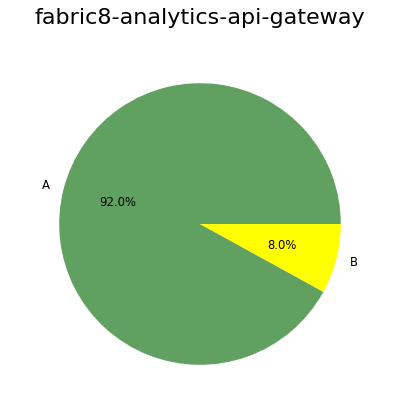
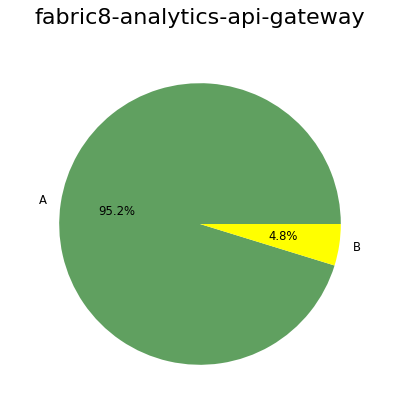
Dashboard 2018-05-17

diff --git a/dashboard/fabric8-analytics-api-gateway.cc.A.html b/dashboard/fabric8-analytics-api-gateway.cc.A.html
@@ -1,35 +1,31 @@
 <pre>tests/test_api_v1.py
-    <span style="color:#00AA00">M </span>20:4 TestServicesEndpoints.test_gremlin - <span style="color:#00AA00">A (3)</span>
-    <span style="color:#00AA00">M </span>26:4 TestServicesEndpoints.test_data_importer - <span style="color:#00AA00">A (3)</span>
-    <span style="color:#00AA00">M </span>32:4 TestServicesEndpoints.test_jobs - <span style="color:#00AA00">A (3)</span>
-    <span style="color:#00AAAA">C </span>7:0 TestServicesEndpoints - <span style="color:#00AA00">A (2)</span>
-    <span style="color:#00AA00">M </span>14:4 TestServicesEndpoints.test_root_endpoint - <span style="color:#00AA00">A (2)</span>
-    <span style="color:#00AA00">M </span>10:4 TestServicesEndpoints.setUp - <span style="color:#00AA00">A (1)</span>
+    <span style="color:#00AA00">M </span>26:4 TestServicesEndpoints.test_unknown_service - <span style="color:#00AA00">A (3)</span>
+    <span style="color:#00AAAA">C </span>8:0 TestServicesEndpoints - <span style="color:#00AA00">A (2)</span>
+    <span style="color:#00AA00">M </span>15:4 TestServicesEndpoints.test_root_endpoint - <span style="color:#00AA00">A (2)</span>
+    <span style="color:#00AA00">M </span>21:4 TestServicesEndpoints.test_gremlin - <span style="color:#00AA00">A (2)</span>
+    <span style="color:#00AA00">M </span>11:4 TestServicesEndpoints.setUp - <span style="color:#00AA00">A (1)</span>
 tests/test_defaults.py
-    <span style="color:#AA00AA">F </span>7:0 test_dummy - <span style="color:#00AA00">A (1)</span>
+    <span style="color:#AA00AA">F </span>4:0 test_dummy - <span style="color:#00AA00">A (1)</span>
 gateway/auth.py
-    <span style="color:#AA00AA">F </span>44:0 decode_token - <span style="color:#00AA00">B (7)</span>
-    <span style="color:#AA00AA">F </span>17:0 fetch_public_key - <span style="color:#00AA00">A (4)</span>
-    <span style="color:#AA00AA">F </span>118:0 user_whitelisted - <span style="color:#00AA00">A (2)</span>
-    <span style="color:#AA00AA">F </span>73:0 login_required - <span style="color:#00AA00">A (1)</span>
-    <span style="color:#00AAAA">C </span>126:0 F8aUser - <span style="color:#00AA00">A (1)</span>
-    <span style="color:#00AA00">M </span>129:4 F8aUser.__init__ - <span style="color:#00AA00">A (1)</span>
+    <span style="color:#AA00AA">F </span>42:0 decode_token - <span style="color:#00AA00">B (7)</span>
+    <span style="color:#AA00AA">F </span>15:0 fetch_public_key - <span style="color:#00AA00">A (4)</span>
+    <span style="color:#AA00AA">F </span>121:0 get_whitelist - <span style="color:#00AA00">A (3)</span>
+    <span style="color:#AA00AA">F </span>72:0 login_required - <span style="color:#00AA00">A (1)</span>
+    <span style="color:#AA00AA">F </span>116:0 user_whitelisted - <span style="color:#00AA00">A (1)</span>
+    <span style="color:#00AAAA">C </span>132:0 F8aUser - <span style="color:#00AA00">A (1)</span>
+    <span style="color:#00AA00">M </span>135:4 F8aUser.__init__ - <span style="color:#00AA00">A (1)</span>
 gateway/api_v1.py
-    <span style="color:#AA00AA">F </span>43:0 api_gateway - <span style="color:#00AA00">B (7)</span>
-    <span style="color:#AA00AA">F </span>24:0 logout - <span style="color:#00AA00">A (2)</span>
-    <span style="color:#AA00AA">F </span>33:0 index - <span style="color:#00AA00">A (1)</span>
-    <span style="color:#AA00AA">F </span>89:0 readiness - <span style="color:#00AA00">A (1)</span>
-    <span style="color:#AA00AA">F </span>96:0 liveness - <span style="color:#00AA00">A (1)</span>
-    <span style="color:#AA00AA">F </span>103:0 api_404_handler - <span style="color:#00AA00">A (1)</span>
+    <span style="color:#AA00AA">F </span>44:0 api_gateway - <span style="color:#00AA00">A (5)</span>
+    <span style="color:#AA00AA">F </span>15:0 configure_logging - <span style="color:#00AA00">A (2)</span>
+    <span style="color:#AA00AA">F </span>34:0 index - <span style="color:#00AA00">A (1)</span>
+    <span style="color:#AA00AA">F </span>78:0 api_404_handler - <span style="color:#00AA00">A (1)</span>
+    <span style="color:#AA00AA">F </span>84:0 error_handler - <span style="color:#00AA00">A (1)</span>
 gateway/errors.py
     <span style="color:#00AAAA">C </span>4:0 HTTPError - <span style="color:#00AA00">A (1)</span>
-    <span style="color:#00AA00">M </span>16:4 HTTPError.__init__ - <span style="color:#00AA00">A (1)</span>
+    <span style="color:#00AA00">M </span>11:4 HTTPError.__init__ - <span style="color:#00AA00">A (1)</span>
 gateway/defaults.py
-    <span style="color:#00AAAA">C </span>16:0 JSONEncoderWithExtraTypes - <span style="color:#00AA00">A (4)</span>
-    <span style="color:#00AA00">M </span>25:4 JSONEncoderWithExtraTypes.default - <span style="color:#00AA00">A (4)</span>
-    <span style="color:#AA00AA">F </span>9:0 json_serial - <span style="color:#00AA00">A (2)</span>
-    <span style="color:#00AAAA">C </span>38:0 F8AConfiguration - <span style="color:#00AA00">A (1)</span>
+    <span style="color:#00AAAA">C </span>5:0 F8AConfiguration - <span style="color:#00AA00">A (1)</span>
 
-25 blocks (classes, functions, methods) analyzed.
-Average complexity: <span style="color:#00AA00">A (2.28)</span>
+21 blocks (classes, functions, methods) analyzed.
+Average complexity: <span style="color:#00AA00">A (2.0)</span>
 </pre>

diff --git a/dashboard/dashboard.html b/dashboard/dashboard.html
@@ -49,7 +49,7 @@
                                     <a href='https://ci.centos.org/job/devtools-test-end-to-end-prod-fabric8-analytics'>link</a>
                                 </td>
                             <td style="width:3ex">
-                                <a href='https://ci.centos.org/job/devtools-test-end-to-end-prod-fabric8-analytics'>99/100</a>
+                                <a href='https://ci.centos.org/job/devtools-test-end-to-end-prod-fabric8-analytics'>98/100</a>
                             </td>
                         </tr>
                     </table>
@@ -599,7 +599,7 @@
                         <tr>
                             <td style="width:34ex"><a href="https://github.com/fabric8-analytics/fabric8-analytics-api-gateway">fabric8-analytics-api-gateway</a></td>
                             <td class="numeric" style="width:7ex"><a href="repository_fabric8-analytics-api-gateway.html">9</a></td>
-                            <td class="numeric" style="width:7ex">406</td>
+                            <td class="numeric" style="width:7ex">351</td>
                             <td class="numeric ok" style="width:6ex">9</td>
                             <td class="numeric error" style="width:6ex">0</td>
                             <td class="numeric" style="width:16ex">
@@ -628,8 +628,8 @@
                                     </a>
                                 </td>
 
-                                <td class="numeric ignored" style="width:3ex;padding-left:0px;padding-right:2px;"><a href="fabric8-analytics-api-gateway.cc.A.html" class="numeric ignored">23</a></td>
-                                <td class="numeric ignored" style="width:3ex;padding-left:0px;padding-right:2px;"><a href="fabric8-analytics-api-gateway.cc.B.html" class="numeric ignored">2</a></td>
+                                <td class="numeric ignored" style="width:3ex;padding-left:0px;padding-right:2px;"><a href="fabric8-analytics-api-gateway.cc.A.html" class="numeric ignored">20</a></td>
+                                <td class="numeric ignored" style="width:3ex;padding-left:0px;padding-right:2px;"><a href="fabric8-analytics-api-gateway.cc.B.html" class="numeric ignored">1</a></td>
                                 <td class="numeric ignored" style="width:3ex;padding-left:0px;padding-right:2px;"><a href="fabric8-analytics-api-gateway.cc.C.html" class="numeric ignored">0</a></td>
 
                                     <td class="numeric ok" style="width:3ex;padding-left:0px;padding-right:2px;"><a href="fabric8-analytics-api-gateway.cc.D.html" class="numeric ok">0</a></td>
@@ -931,7 +931,7 @@
                             <td style="width:36ex"><a href="https://github.com/fabric8-analytics/fabric8-analytics-common">fabric8-analytics-common</a></td>
                                     <td style="width:10ex" class="boolean error">&times;</td>
                                     <td style="width:10ex">
-                                        <span class="ci_status boolean ok">&#x2713;</span>
+                                        <span class="ci_status boolean error">?</span>
                                     <a href='https://ci.centos.org/job/devtools-e2e-fabric8-analytics'>link</a>
                                     </td>
                                     <td style="width:10ex">
@@ -1110,7 +1110,7 @@
                                     <a href='https://ci.centos.org/job/devtools-fabric8-analytics-nvd-toolkit-fabric8-analytics'>link</a>
                                     </td>
                                     <td style="width:10ex">
-                                        <span class="ci_status boolean ok">&#x2713;</span>
+                                        <span class="ci_status boolean error">&times;</span>
                                     <a href='https://ci.centos.org/job/devtools-fabric8-analytics-nvd-toolkit-fabric8-analytics-pylint'>link</a>
                                     </td>
                                     <td style="width:10ex">
@@ -1193,7 +1193,7 @@
             </div>
             <div style='height:100px'></div>
             <div>Author: Pavel Tisnovsky &lt;<a href="mailto:ptisnovs@redhat.com">ptisnovs@redhat.com</a>&gt;</div>
-            <div>Generated on: 2018-05-16 14:12:46</div>
+            <div>Generated on: 2018-05-17 09:17:56</div>
         </div>
         <script type="text/javascript">
         $(function () {

diff --git a/dashboard/repository_fabric8-analytics-api-gateway.html b/dashboard/repository_fabric8-analytics-api-gateway.html
@@ -26,31 +26,31 @@
                     <tr><th>Source file</th><th>Line count</th><th>Linter</th><th>Docstyle</th></tr>
                     <tr>
                         <td><a href="https://github.com/fabric8-analytics/fabric8-analytics-api-gateway/blob/master/tests/test_errors.py">tests/test_errors.py</a></td>
-                        <td class="numeric">8</td>
+                        <td class="numeric">5</td>
                             <td class="boolean ok">&#x2713;</td>
                             <td class="boolean ok">&#x2713;</td>
                     </tr>
                     <tr>
                         <td><a href="https://github.com/fabric8-analytics/fabric8-analytics-api-gateway/blob/master/tests/test_api_v1.py">tests/test_api_v1.py</a></td>
-                        <td class="numeric">36</td>
+                        <td class="numeric">31</td>
                             <td class="boolean ok">&#x2713;</td>
                             <td class="boolean ok">&#x2713;</td>
                     </tr>
                     <tr>
                         <td><a href="https://github.com/fabric8-analytics/fabric8-analytics-api-gateway/blob/master/tests/test_auth.py">tests/test_auth.py</a></td>
-                        <td class="numeric">7</td>
+                        <td class="numeric">5</td>
                             <td class="boolean ok">&#x2713;</td>
                             <td class="boolean ok">&#x2713;</td>
                     </tr>
                     <tr>
                         <td><a href="https://github.com/fabric8-analytics/fabric8-analytics-api-gateway/blob/master/tests/test_defaults.py">tests/test_defaults.py</a></td>
-                        <td class="numeric">13</td>
+                        <td class="numeric">10</td>
                             <td class="boolean ok">&#x2713;</td>
                             <td class="boolean ok">&#x2713;</td>
                     </tr>
                     <tr>
                         <td><a href="https://github.com/fabric8-analytics/fabric8-analytics-api-gateway/blob/master/gateway/auth.py">gateway/auth.py</a></td>
-                        <td class="numeric">131</td>
+                        <td class="numeric">137</td>
                             <td class="boolean ok">&#x2713;</td>
                             <td class="boolean ok">&#x2713;</td>
                     </tr>
@@ -62,19 +62,19 @@
                     </tr>
                     <tr>
                         <td><a href="https://github.com/fabric8-analytics/fabric8-analytics-api-gateway/blob/master/gateway/api_v1.py">gateway/api_v1.py</a></td>
-                        <td class="numeric">110</td>
+                        <td class="numeric">91</td>
                             <td class="boolean ok">&#x2713;</td>
                             <td class="boolean ok">&#x2713;</td>
                     </tr>
                     <tr>
                         <td><a href="https://github.com/fabric8-analytics/fabric8-analytics-api-gateway/blob/master/gateway/errors.py">gateway/errors.py</a></td>
-                        <td class="numeric">20</td>
+                        <td class="numeric">15</td>
                             <td class="boolean ok">&#x2713;</td>
                             <td class="boolean ok">&#x2713;</td>
                     </tr>
                     <tr>
                         <td><a href="https://github.com/fabric8-analytics/fabric8-analytics-api-gateway/blob/master/gateway/defaults.py">gateway/defaults.py</a></td>
-                        <td class="numeric">76</td>
+                        <td class="numeric">52</td>
                             <td class="boolean ok">&#x2713;</td>
                             <td class="boolean ok">&#x2713;</td>
                     </tr>
@@ -82,7 +82,7 @@
             </div>
             <div style='height:100px'></div>
             <div>Author: Pavel Tisnovsky &lt;<a href="mailto:ptisnovs@redhat.com">ptisnovs@redhat.com</a>&gt;</div>
-            <div>Generated on: 2018-05-16 14:12:46</div>
+            <div>Generated on: 2018-05-17 09:17:56</div>
         </div>
     </body>
 </html>

diff --git a/dashboard/fabric8-analytics-api-gateway.mi.A.html b/dashboard/fabric8-analytics-api-gateway.mi.A.html
@@ -1,10 +1,10 @@
-<pre>tests/test_errors.py - <span style="color:#00AA00">A (81.86)</span>
-tests/test_api_v1.py - <span style="color:#00AA00">A (56.17)</span>
-tests/test_auth.py - <span style="color:#00AA00">A (84.58)</span>
-tests/test_defaults.py - <span style="color:#00AA00">A (78.02)</span>
-gateway/auth.py - <span style="color:#00AA00">A (58.23)</span>
+<pre>tests/test_errors.py - <span style="color:#00AA00">A (88.42)</span>
+tests/test_api_v1.py - <span style="color:#00AA00">A (60.23)</span>
+tests/test_auth.py - <span style="color:#00AA00">A (88.42)</span>
+tests/test_defaults.py - <span style="color:#00AA00">A (81.86)</span>
+gateway/auth.py - <span style="color:#00AA00">A (57.44)</span>
 gateway/__init__.py - <span style="color:#00AA00">A (100.00)</span>
-gateway/api_v1.py - <span style="color:#00AA00">A (60.25)</span>
+gateway/api_v1.py - <span style="color:#00AA00">A (58.04)</span>
 gateway/errors.py - <span style="color:#00AA00">A (100.00)</span>
-gateway/defaults.py - <span style="color:#00AA00">A (77.00)</span>
+gateway/defaults.py - <span style="color:#00AA00">A (59.37)</span>
 </pre>

diff --git a/dashboard/charts_fabric8-analytics-version-comparator.html b/dashboard/charts_fabric8-analytics-version-comparator.html
@@ -26,12 +26,12 @@
                 <img src="cyclomatic_complexity_fabric8-analytics-version-comparator.png" />
                 <div class="panel-heading">Maintainability index</div>
                 <img src="maintainability_index_fabric8-analytics-version-comparator.png" />
-                <div class="panel-heading">Code complexity</div>
+                <div class="panel-heading">Code coverage</div>
                 <img src="code_coverage_fabric8-analytics-version-comparator.png" />
             </div>
             <div style='height:100px'></div>
             <div>Author: Pavel Tisnovsky &lt;<a href="mailto:ptisnovs@redhat.com">ptisnovs@redhat.com</a>&gt;</div>
-            <div>Generated on: 2018-05-16 14:12:46</div>
+            <div>Generated on: 2018-05-17 09:17:56</div>
         </div>
     </body>
 </html>

diff --git a/dashboard/charts_fabric8-analytics-license-analysis.html b/dashboard/charts_fabric8-analytics-license-analysis.html
@@ -26,12 +26,12 @@
                 <img src="cyclomatic_complexity_fabric8-analytics-license-analysis.png" />
                 <div class="panel-heading">Maintainability index</div>
                 <img src="maintainability_index_fabric8-analytics-license-analysis.png" />
-                <div class="panel-heading">Code complexity</div>
+                <div class="panel-heading">Code coverage</div>
                 <img src="code_coverage_fabric8-analytics-license-analysis.png" />
             </div>
             <div style='height:100px'></div>
             <div>Author: Pavel Tisnovsky &lt;<a href="mailto:ptisnovs@redhat.com">ptisnovs@redhat.com</a>&gt;</div>
-            <div>Generated on: 2018-05-16 14:12:46</div>
+            <div>Generated on: 2018-05-17 09:17:56</div>
         </div>
     </body>
 </html>

diff --git a/dashboard/charts_fabric8-analytics-stack-analysis.html b/dashboard/charts_fabric8-analytics-stack-analysis.html
@@ -26,12 +26,12 @@
                 <img src="cyclomatic_complexity_fabric8-analytics-stack-analysis.png" />
                 <div class="panel-heading">Maintainability index</div>
                 <img src="maintainability_index_fabric8-analytics-stack-analysis.png" />
-                <div class="panel-heading">Code complexity</div>
+                <div class="panel-heading">Code coverage</div>
                 <img src="code_coverage_fabric8-analytics-stack-analysis.png" />
             </div>
             <div style='height:100px'></div>
             <div>Author: Pavel Tisnovsky &lt;<a href="mailto:ptisnovs@redhat.com">ptisnovs@redhat.com</a>&gt;</div>
-            <div>Generated on: 2018-05-16 14:12:46</div>
+            <div>Generated on: 2018-05-17 09:17:56</div>
         </div>
     </body>
 </html>

diff --git a/dashboard/charts_fabric8-analytics-api-gateway.html b/dashboard/charts_fabric8-analytics-api-gateway.html
@@ -26,12 +26,12 @@
                 <img src="cyclomatic_complexity_fabric8-analytics-api-gateway.png" />
                 <div class="panel-heading">Maintainability index</div>
                 <img src="maintainability_index_fabric8-analytics-api-gateway.png" />
-                <div class="panel-heading">Code complexity</div>
+                <div class="panel-heading">Code coverage</div>
                 <img src="code_coverage_fabric8-analytics-api-gateway.png" />
             </div>
             <div style='height:100px'></div>
             <div>Author: Pavel Tisnovsky &lt;<a href="mailto:ptisnovs@redhat.com">ptisnovs@redhat.com</a>&gt;</div>
-            <div>Generated on: 2018-05-16 14:12:46</div>
+            <div>Generated on: 2018-05-17 09:17:56</div>
         </div>
     </body>
 </html>

diff --git a/dashboard/charts_fabric8-analytics-nvd-toolkit.html b/dashboard/charts_fabric8-analytics-nvd-toolkit.html
@@ -26,12 +26,12 @@
                 <img src="cyclomatic_complexity_fabric8-analytics-nvd-toolkit.png" />
                 <div class="panel-heading">Maintainability index</div>
                 <img src="maintainability_index_fabric8-analytics-nvd-toolkit.png" />
-                <div class="panel-heading">Code complexity</div>
+                <div class="panel-heading">Code coverage</div>
                 <img src="code_coverage_fabric8-analytics-nvd-toolkit.png" />
             </div>
             <div style='height:100px'></div>
             <div>Author: Pavel Tisnovsky &lt;<a href="mailto:ptisnovs@redhat.com">ptisnovs@redhat.com</a>&gt;</div>
-            <div>Generated on: 2018-05-16 14:12:46</div>
+            <div>Generated on: 2018-05-17 09:17:56</div>
         </div>
     </body>
 </html>

diff --git a/dashboard/charts_fabric8-analytics-recommender.html b/dashboard/charts_fabric8-analytics-recommender.html
@@ -26,12 +26,12 @@
                 <img src="cyclomatic_complexity_fabric8-analytics-recommender.png" />
                 <div class="panel-heading">Maintainability index</div>
                 <img src="maintainability_index_fabric8-analytics-recommender.png" />
-                <div class="panel-heading">Code complexity</div>
+                <div class="panel-heading">Code coverage</div>
                 <img src="code_coverage_fabric8-analytics-recommender.png" />
             </div>
             <div style='height:100px'></div>
             <div>Author: Pavel Tisnovsky &lt;<a href="mailto:ptisnovs@redhat.com">ptisnovs@redhat.com</a>&gt;</div>
-            <div>Generated on: 2018-05-16 14:12:46</div>
+            <div>Generated on: 2018-05-17 09:17:56</div>
         </div>
     </body>
 </html>

diff --git a/dashboard/charts_fabric8-analytics-data-model.html b/dashboard/charts_fabric8-analytics-data-model.html
@@ -26,12 +26,12 @@
                 <img src="cyclomatic_complexity_fabric8-analytics-data-model.png" />
                 <div class="panel-heading">Maintainability index</div>
                 <img src="maintainability_index_fabric8-analytics-data-model.png" />
-                <div class="panel-heading">Code complexity</div>
+                <div class="panel-heading">Code coverage</div>
                 <img src="code_coverage_fabric8-analytics-data-model.png" />
             </div>
             <div style='height:100px'></div>
             <div>Author: Pavel Tisnovsky &lt;<a href="mailto:ptisnovs@redhat.com">ptisnovs@redhat.com</a>&gt;</div>
-            <div>Generated on: 2018-05-16 14:12:46</div>
+            <div>Generated on: 2018-05-17 09:17:56</div>
         </div>
     </body>
 </html>

diff --git a/dashboard/charts_fabric8-analytics-ingestion.html b/dashboard/charts_fabric8-analytics-ingestion.html
@@ -26,12 +26,12 @@
                 <img src="cyclomatic_complexity_fabric8-analytics-ingestion.png" />
                 <div class="panel-heading">Maintainability index</div>
                 <img src="maintainability_index_fabric8-analytics-ingestion.png" />
-                <div class="panel-heading">Code complexity</div>
+                <div class="panel-heading">Code coverage</div>
                 <img src="code_coverage_fabric8-analytics-ingestion.png" />
             </div>
             <div style='height:100px'></div>
             <div>Author: Pavel Tisnovsky &lt;<a href="mailto:ptisnovs@redhat.com">ptisnovs@redhat.com</a>&gt;</div>
-            <div>Generated on: 2018-05-16 14:12:46</div>
+            <div>Generated on: 2018-05-17 09:17:56</div>
         </div>
     </body>
 </html>
